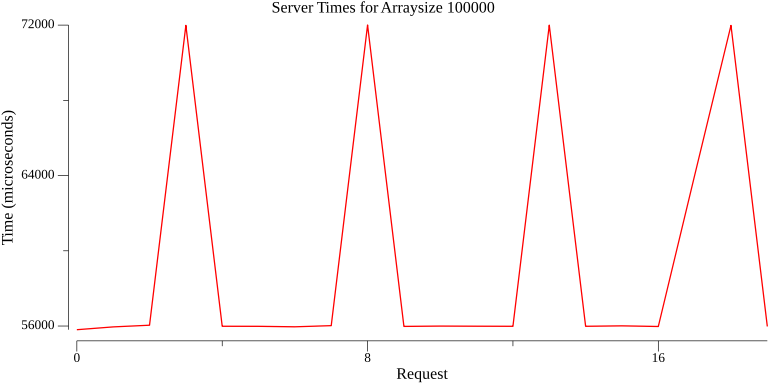
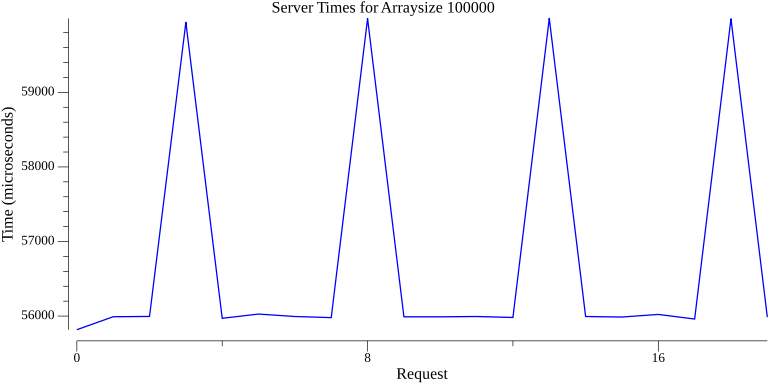
Java Parallel also works

diff --git a/docker-compose/Experiments/JavaProblemParallel/request_sender.go b/docker-compose/Experiments/JavaProblemParallel/request_sender.go
@@ -116,7 +116,7 @@ func plotTimes(times []int64, heapsizes []int64, title string) error {
 	if err != nil {
 		return err
 	}
-	line.Color = color.RGBA{R: 255, G: 0, B: 0, A: 255} // Red color
+	line.Color = color.RGBA{R: 0, G: 0, B: 255, A: 255} // Red color
 	p.Add(line)
 	if err := p.Save(8*vg.Inch, 4*vg.Inch, "times_plot.png"); err != nil {
 		return err
